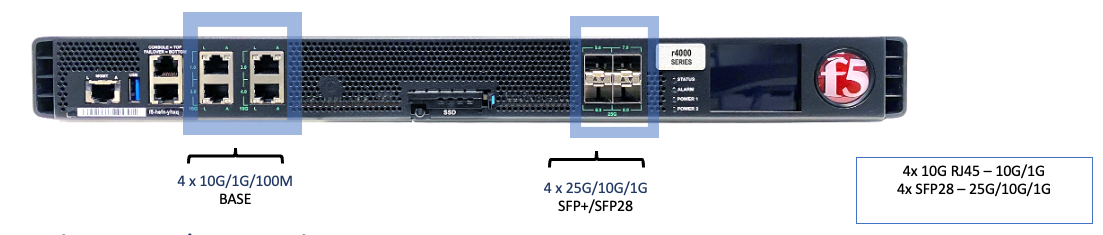
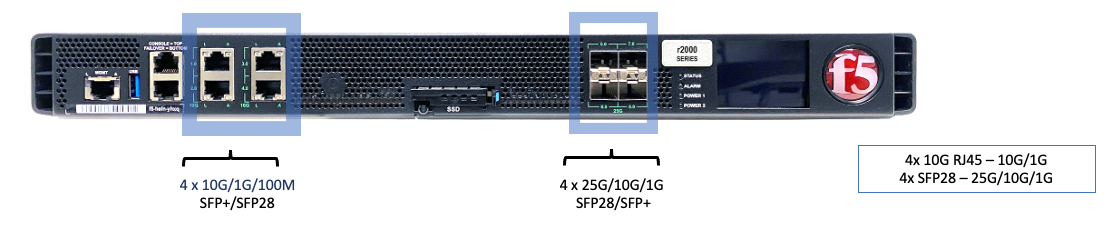
images

diff --git a/docs/rseries_appliances.rst b/docs/rseries_appliances.rst
@@ -149,17 +149,36 @@ The r2000 Series is a 1RU appliance, that has 2 different licensing options that
   :align: center
   :scale: 160%
 
-.. image:: images/rseries_appliances/image3a.png
+The r4000 Series appliance has 4 x 10Gb/1Gb copper ports as well as 4 x 25Gb/10Gb/1Gbports that are SFP+/SFP28.
+
+.. image:: images/rseries_appliances/image4a.png
   :align: center
   :scale: 70%
 
-.. image:: images/rseries_appliances/image3b.png
+The r4000 Series unit has a single 10Gb Ethernet out-of-band management port and a serial console port. A USB3.0 port is also made avaiable for recovering/reinstalling system software. LEDs will change color to indicate different port speeds, and high level LEDs provide Status, Alarm, and Power Supply Status. The appliance also has an LCD panel.
+
+.. image:: images/rseries_appliances/image4b.png
   :align: center
   :scale: 70%
+
+In the back of the AC Power Model are 2 power supplies and AC Inputs. The system ships with one power supply included, and the second is optional. The back of the system also has a **Chassis Ground Terminal** which can be used when performing maintenance. 
 
 .. image:: images/rseries_appliances/image3c.png
   :align: center
   :scale: 70%
+
+In the back of the DC Power Model are 2 power supplies and DC Inputs. The system ships with one power supply included, and the second is optional. The back of the system also has a **Chassis Ground Terminal** which can be used when performing maintenance. 
+
+.. image:: images/rseries_appliances/image3d.png
+  :align: center
+  :scale: 70%
+
+In the back of the HVDC (High Voltage DC)  Power Model are 2 power supplies and DC Inputs. The system ships with one power supply included, and the second is optional. The back of the system also has a **Chassis Ground Terminal** which can be used when performing maintenance. 
+
+.. image:: images/rseries_appliances/image3e.png
+  :align: center
+  :scale: 70%
+
 
 Rack Mounting the Appliances
 ============================
